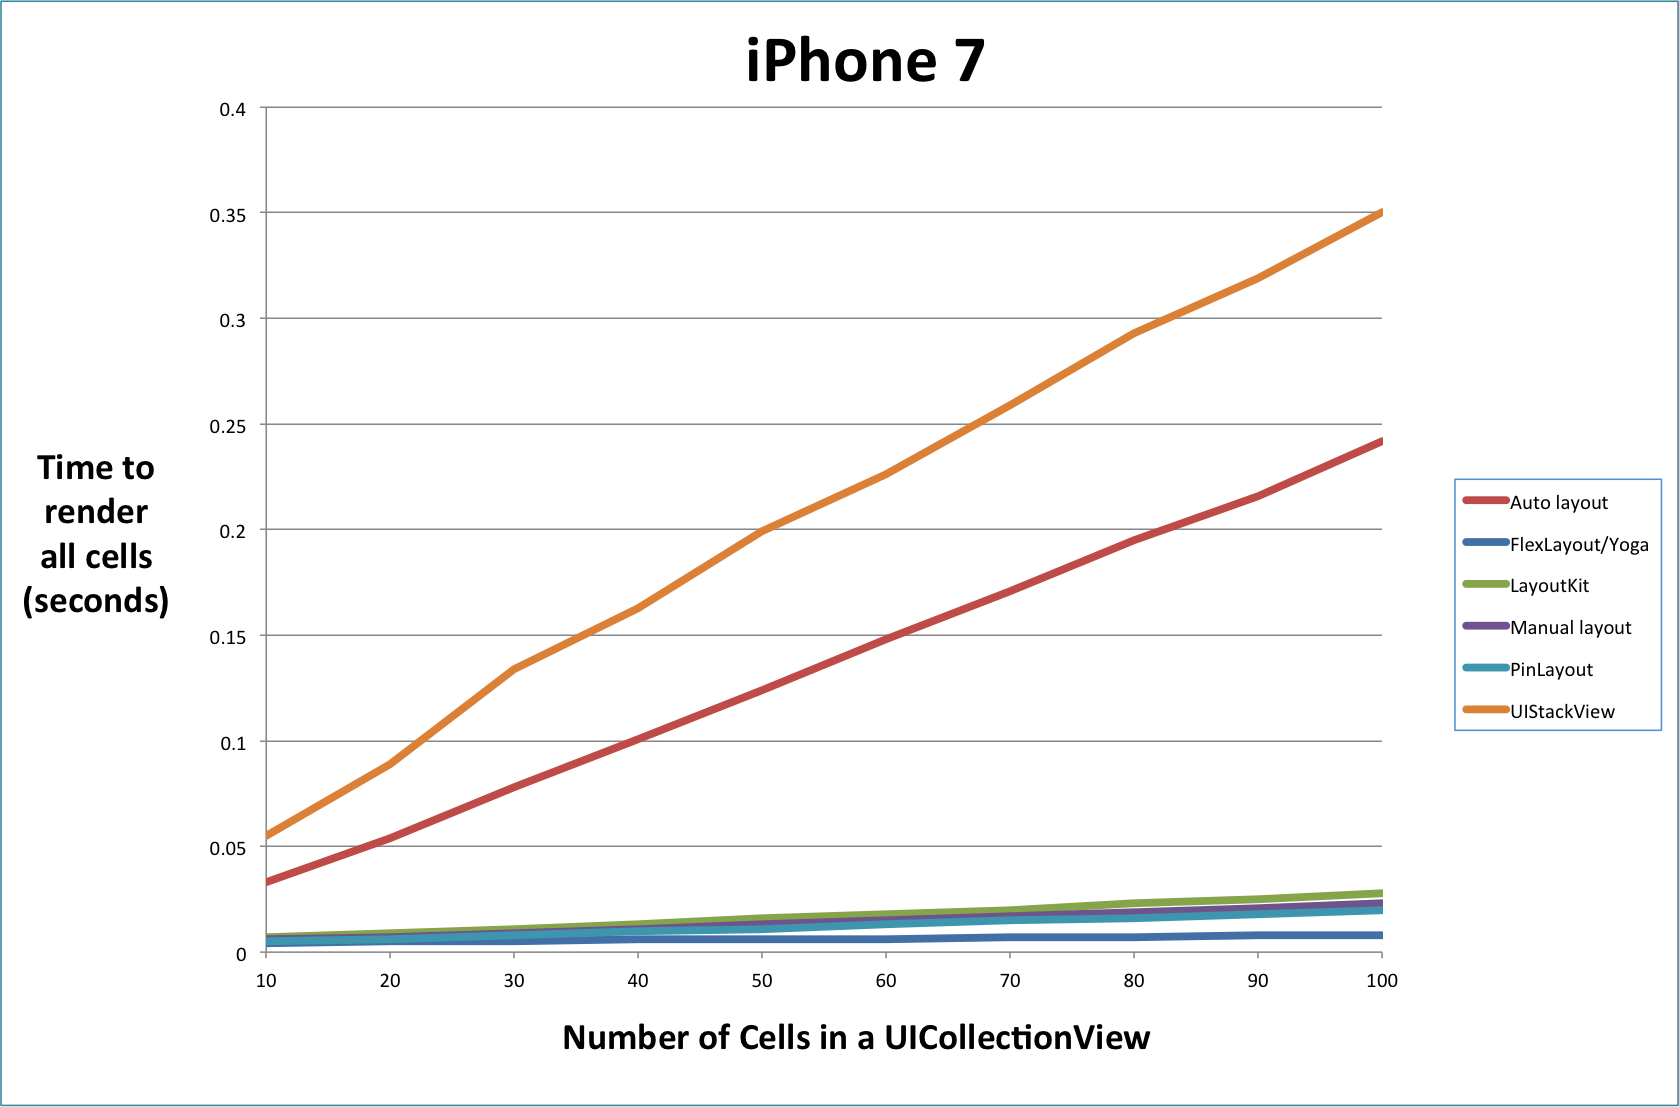
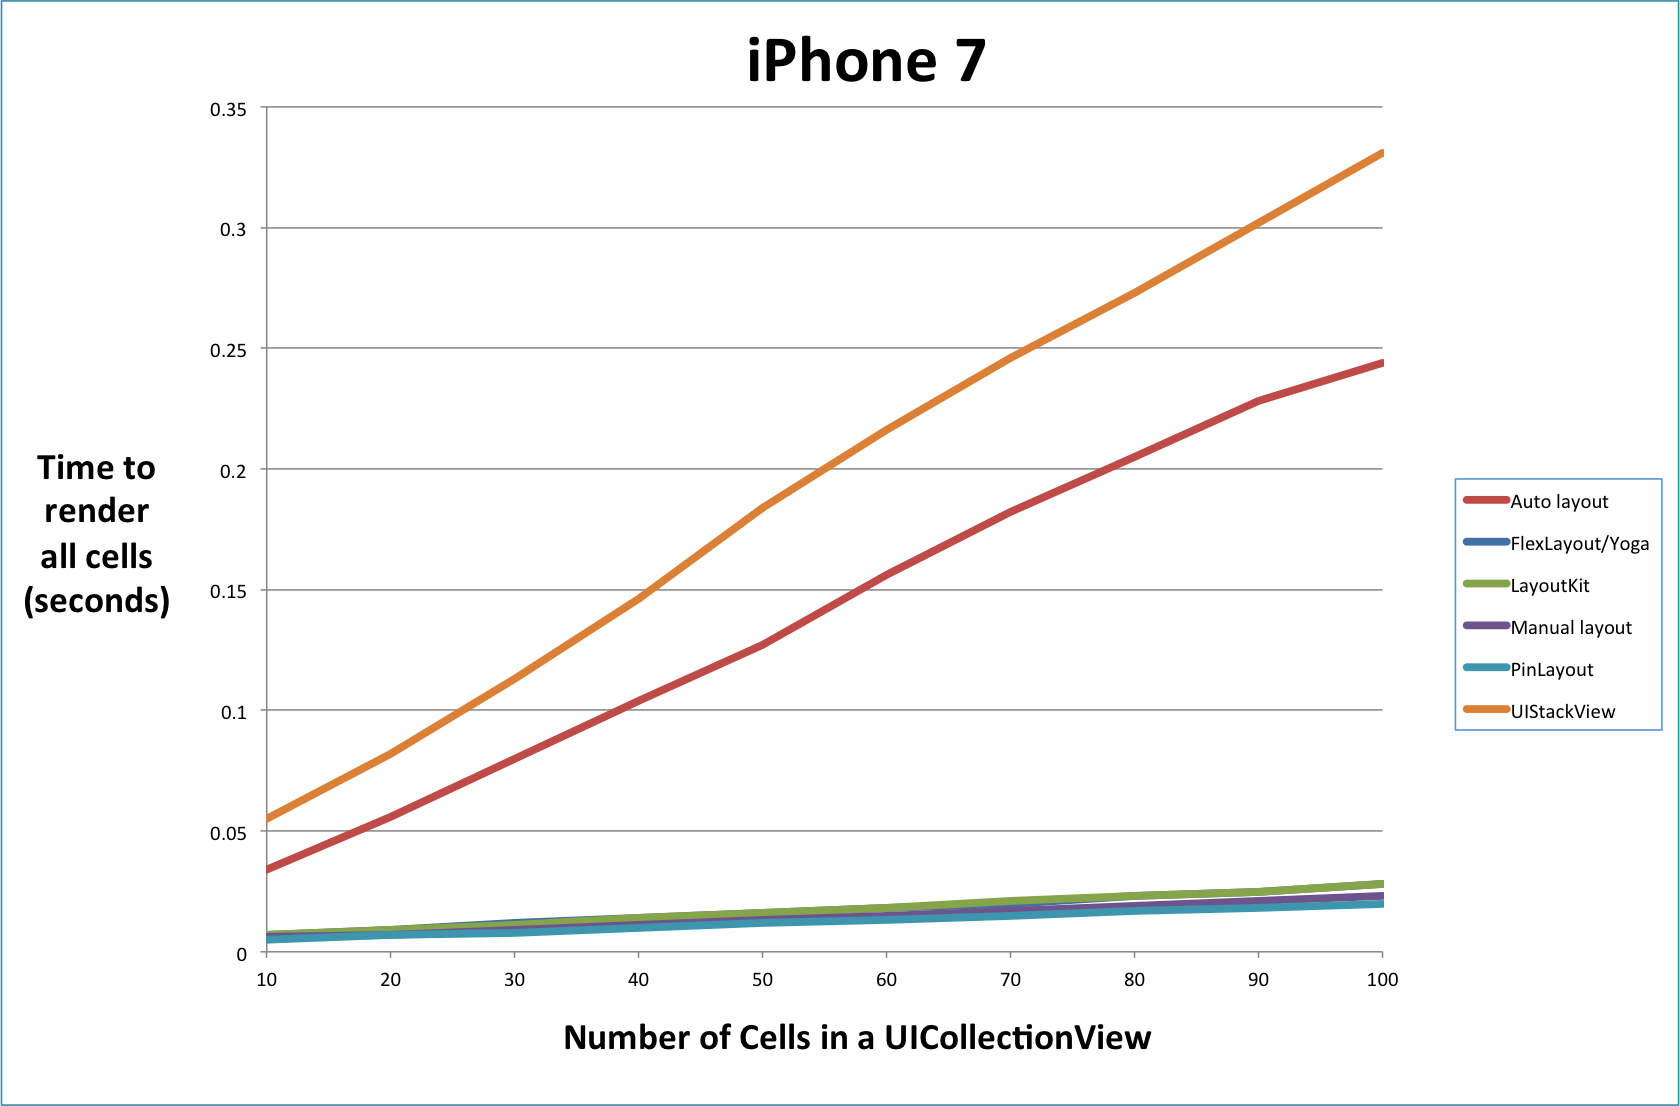
Update samples

diff --git a/LayoutFrameworkBenchmark/Benchmarks/BenchmarkViewController.swift b/LayoutFrameworkBenchmark/Benchmarks/BenchmarkViewController.swift
@@ -14,7 +14,37 @@ class BenchmarkViewController: UITableViewController {
     private let reuseIdentifier = "cell"
 
     private let viewControllers: [ViewControllerData] = [
-        ViewControllerData(title: "UICollectionView UIStack feed", factoryBlock: { viewCount in
+        
+        //
+        // Ordered alphabetically
+        //
+        
+        ViewControllerData(title: "Auto Layout", factoryBlock: { viewCount in
+            let data = FeedItemData.generate(count: viewCount)
+            return CollectionViewControllerFeedItemAutoLayoutView(data: data)
+        }),
+        
+        ViewControllerData(title: "FlexLayout", factoryBlock: { viewCount in
+            let data = FeedItemData.generate(count: viewCount)
+            return CollectionViewControllerFeedItemFlexLayoutView(data: data)
+        }),
+        
+        ViewControllerData(title: "LayoutKit", factoryBlock: { viewCount in
+            let data = FeedItemData.generate(count: viewCount)
+            return CollectionViewControllerFeedItemLayoutKitView(data: data)
+        }),
+
+        ViewControllerData(title: "Manual Layout", factoryBlock: { viewCount in
+            let data = FeedItemData.generate(count: viewCount)
+            return CollectionViewControllerFeedItemManualView(data: data)
+        }),
+        
+        ViewControllerData(title: "PinLayout", factoryBlock: { viewCount in
+            let data = FeedItemData.generate(count: viewCount)
+            return CollectionViewControllerFeedItemPinLayoutView(data: data)
+        }),
+
+        ViewControllerData(title: "UIStackView", factoryBlock: { viewCount in
             if #available(iOS 9.0, *) {
                 let data = FeedItemData.generate(count: viewCount)
                 return CollectionViewControllerFeedItemUIStackView(data: data)
@@ -22,66 +52,6 @@ class BenchmarkViewController: UITableViewController {
                 NSLog("UIStackView only supported on iOS 9+")
                 return nil
             }
-        }),
-
-        ViewControllerData(title: "UICollectionView Auto Layout feed", factoryBlock: { viewCount in
-            let data = FeedItemData.generate(count: viewCount)
-            return CollectionViewControllerFeedItemAutoLayoutView(data: data)
-        }),
-
-        ViewControllerData(title: "UICollectionView LayoutKit feed", factoryBlock: { viewCount in
-            let data = FeedItemData.generate(count: viewCount)
-            return CollectionViewControllerFeedItemLayoutKitView(data: data)
-        }),
-
-        ViewControllerData(title: "UICollectionView Manual Layout feed", factoryBlock: { viewCount in
-            let data = FeedItemData.generate(count: viewCount)
-            return CollectionViewControllerFeedItemManualView(data: data)
-        }),
-        
-        ViewControllerData(title: "UICollectionView PinLayout Layout feed", factoryBlock: { viewCount in
-            let data = FeedItemData.generate(count: viewCount)
-            return CollectionViewControllerFeedItemPinLayoutView(data: data)
-        }),
-
-        ViewControllerData(title: "UICollectionView FlexLayout Layout feed", factoryBlock: { viewCount in
-            let data = FeedItemData.generate(count: viewCount)
-            return CollectionViewControllerFeedItemFlexLayoutView(data: data)
-        }),
-
-        ViewControllerData(title: "UITableView UIStack feed", factoryBlock: { viewCount in
-            if #available(iOS 9.0, *) {
-                let data = FeedItemData.generate(count: viewCount)
-                return TableViewControllerFeedItemUIStackView(data: data)
-            } else {
-                NSLog("UIStackView only supported on iOS 9+")
-                return nil
-            }
-        }),
-
-        ViewControllerData(title: "UITableView Auto Layout feed", factoryBlock: { viewCount in
-            let data = FeedItemData.generate(count: viewCount)
-            return TableViewControllerFeedItemAutoLayoutView(data: data)
-        }),
-
-        ViewControllerData(title: "UITableView LayoutKit feed", factoryBlock: { viewCount in
-            let data = FeedItemData.generate(count: viewCount)
-            return TableViewControllerFeedItemLayoutKitView(data: data)
-        }),
-
-        ViewControllerData(title: "UITableView Manual Layout feed", factoryBlock: { viewCount in
-            let data = FeedItemData.generate(count: viewCount)
-            return TableViewControllerFeedItemManualView(data: data)
-        }),
-        
-        ViewControllerData(title: "UITableView PinLayout Layout feed", factoryBlock: { viewCount in
-            let data = FeedItemData.generate(count: viewCount)
-            return TableViewControllerFeedItemPinLayoutView(data: data)
-        }),
-
-        ViewControllerData(title: "UITableView FlexLayout Layout feed", factoryBlock: { viewCount in
-            let data = FeedItemData.generate(count: viewCount)
-            return TableViewControllerFeedItemFlexLayoutView(data: data)
         })
     ]
 
@@ -118,7 +88,8 @@ class BenchmarkViewController: UITableViewController {
     }
 
     private func benchmark(_ viewControllerData: ViewControllerData) {
-        let iterations = [1, 2, 3, 4, 5, 6, 7, 8, 9, 10, 20, 30, 40, 50, 100]
+        let iterations = [10, 20, 30, 40, 50, 60, 70, 80, 90, 100]
+        
         for i in iterations {
             let description = "\(i)\tsubviews\t\(viewControllerData.title)"
             Stopwatch.benchmark(description, block: { (stopwatch: Stopwatch) -> Void in

diff --git a/LayoutFrameworkBenchmark/Benchmarks/FlexLayout/FeedItemFlexLayoutView.swift b/LayoutFrameworkBenchmark/Benchmarks/FlexLayout/FeedItemFlexLayoutView.swift
@@ -140,15 +140,32 @@ class FeedItemFlexLayoutView: UIView, DataBinder {
 
     func setData(_ data: FeedItemData) {
         actionLabel.text = data.actionText
+        actionLabel.flex.markDirty()
 
         posterNameLabel.text = data.posterName
+        posterNameLabel.flex.markDirty()
+        
         posterHeadlineLabel.text = data.posterHeadline
+        posterHeadlineLabel.flex.markDirty()
+        
         posterTimeLabel.text = data.posterTimestamp
+        posterTimeLabel.flex.markDirty()
         
         posterCommentLabel.text = data.posterComment
+        posterCommentLabel.flex.markDirty()
+        
         contentTitleLabel.text = data.contentTitle
+        contentTitleLabel.flex.markDirty()
+        
         contentDomainLabel.text = data.contentDomain
+        contentDomainLabel.flex.markDirty()
+        
         actorCommentLabel.text = data.actorComment
+        actorCommentLabel.flex.markDirty()
+        
+        
+        // TODO: Redeo benchark!!!
+        
         setNeedsLayout()
     }
 
@@ -159,7 +176,7 @@ class FeedItemFlexLayoutView: UIView, DataBinder {
     }
 
     fileprivate func layoutFlexbox(size: CGSize) {
-        flex.width(size.width).height(size.height).layout()
+        flex.size(size).layout()
     }
     
     override func sizeThatFits(_ size: CGSize) -> CGSize {
@@ -169,6 +186,6 @@ class FeedItemFlexLayoutView: UIView, DataBinder {
     }
     
     override var intrinsicContentSize: CGSize {
-        return sizeThatFits(CGSize(width: frame.width, height: CGFloat.greatestFiniteMagnitude))
+        return sizeThatFits(CGSize(width: frame.width, height: .greatestFiniteMagnitude))
     }
 }

diff --git a/LayoutFrameworkBenchmark/Benchmarks/PinLayout/FeedItemPinLayoutView.swift b/LayoutFrameworkBenchmark/Benchmarks/PinLayout/FeedItemPinLayoutView.swift
@@ -177,6 +177,6 @@ class FeedItemPinLayoutView: UIView, DataBinder {
     }
     
     override var intrinsicContentSize: CGSize {
-        return sizeThatFits(CGSize(width: frame.width, height: CGFloat.greatestFiniteMagnitude))
+        return sizeThatFits(CGSize(width: frame.width, height: .greatestFiniteMagnitude))
     }
 }

diff --git a/README.md b/README.md
@@ -98,10 +98,10 @@ The **X axis** in following charts indicates the **number of cells** contained f
 <p align="center">
   <a href="docs_markdown/benchmark_iphone6s.png"><img src="docs_markdown/benchmark_iphone6s.png" alt="PinLayout Performance"/></a>
 
-<!--<p align="center">
+<p align="center">
   <a href="docs_markdown/benchmark_iphone6.png"><img src="docs_markdown/benchmark_iphone6.png" alt="PinLayout Performance"/></a>
 
-<p align="center">
+<!--<p align="center">
   <a href="docs_markdown/benchmark_iphone5.png"><img src="docs_markdown/benchmark_iphone5.png" alt="PinLayout Performance"/></a>
 -->  
 
